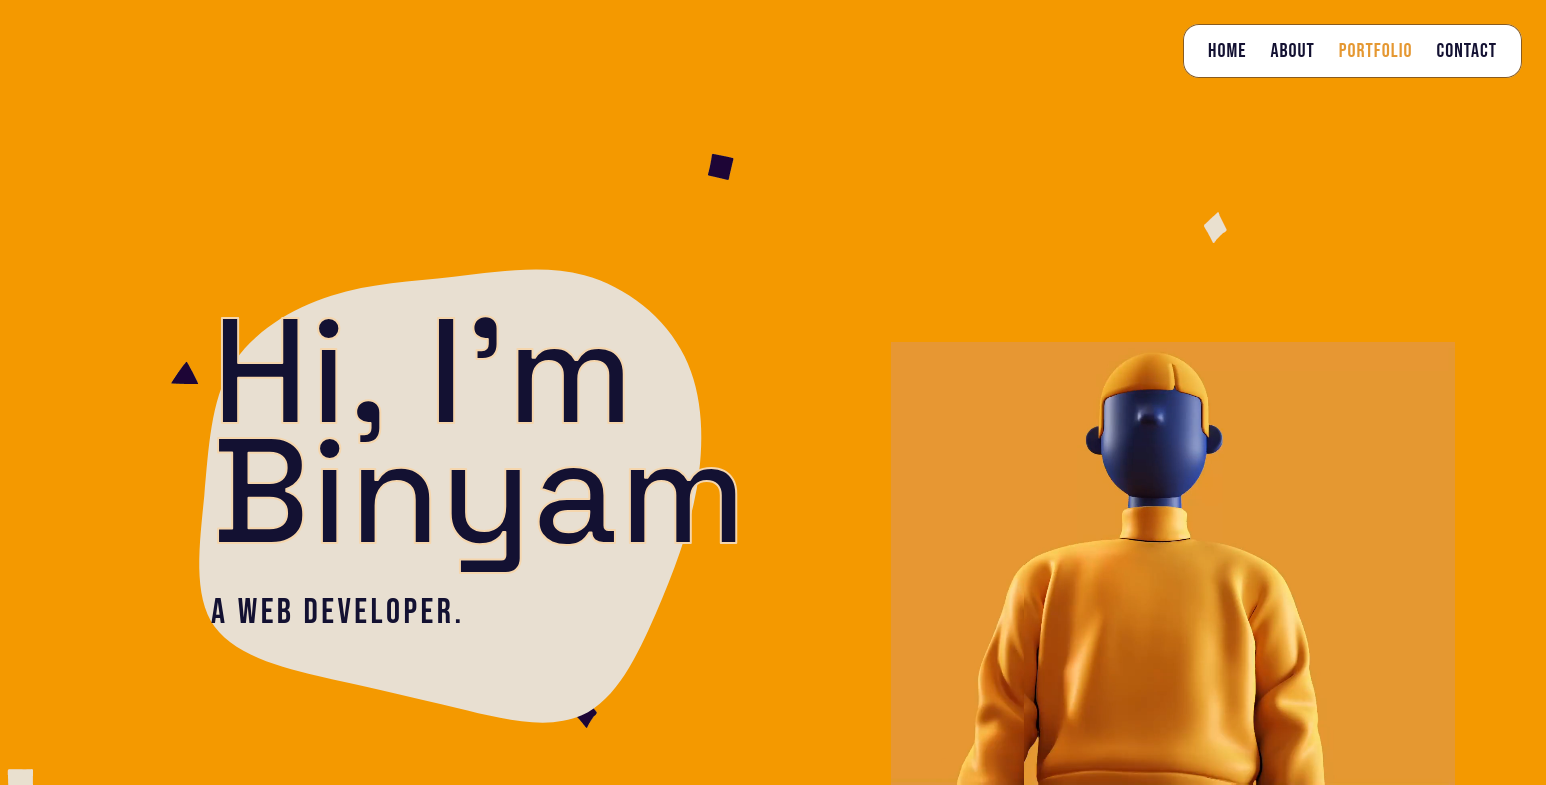
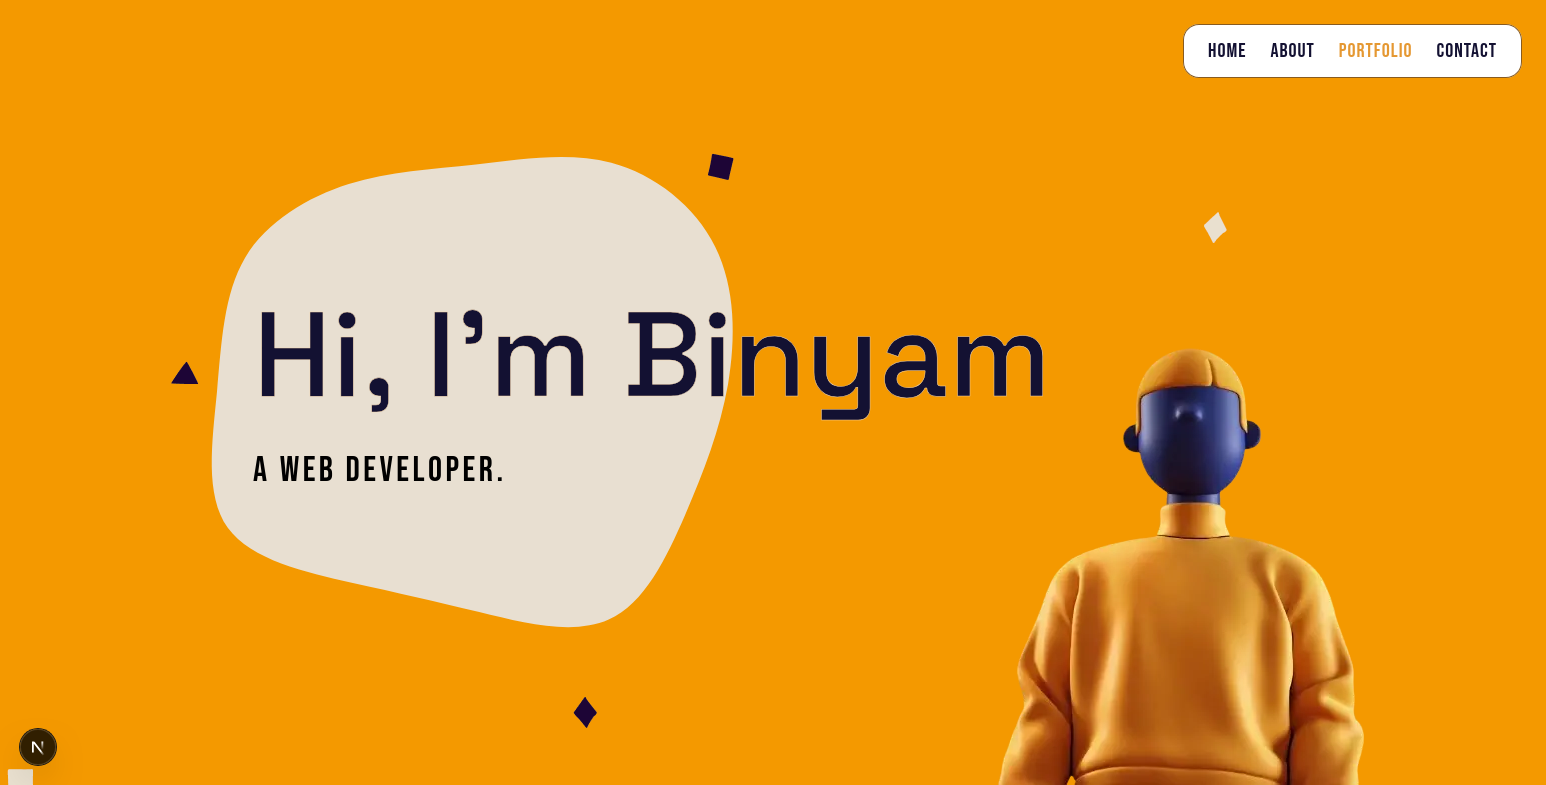
refactor: update Hero component layout and text formatting

diff --git a/components/Hero.tsx b/components/Hero.tsx
@@ -26,21 +26,21 @@ const Hero = () => {
           </svg>
         </div>
 
-        <div className="relative z-10 text-center md:text-left flex flex-col items-center md:items-start">
+        <div className="relative z-10 text-center md:text-left flex flex-col gap-6 sm:gap-2 items-center md:items-start">
           <h1
-            className="space-grotesk-font text-[50px] sm:text-[60px] md:text-[80px] lg:text-[100px] xl:text-[120px] leading-[1.1] mb-2 sm:mb-6 font-extrabold"
+            className="space-grotesk-font text-[60px] md:text-[80px] lg:text-[100px] xl:text-[120px] leading-[1.1] mb-2 sm:mb-6 font-extrabold"
             style={{
               WebkitTextStroke: "0.5px #f5d6ad",
             }}
           >
-            Hi, I&apos;m Binyam
+            Hi, I&apos;m <br /> Binyam
           </h1>
           <p className="bebas-neue-regular text-[22px] sm:text-[28px] md:text-[35px] tracking-widest text-black">
             a web developer.
           </p>
         </div>
       </div>
-      <div className="w-full max-w-[400px] md:max-w-[480px] lg:max-w-[564px] h-[45vh] md:h-[80vh] lg:h-[85vh] relative mt-auto md:absolute md:bottom-0 md:right-[2%] lg:right-[5%] z-20 shrink-0">
+      <div className="w-full max-w-[380px] md:max-w-[480px] lg:max-w-[564px] h-[45vh] md:h-[80vh] lg:h-[85vh] relative mt-auto md:absolute md:bottom-0 md:right-[2%] lg:right-[5%] z-20 shrink-0">
         <Image
           src={OrangeMan}
           alt="Binyam"